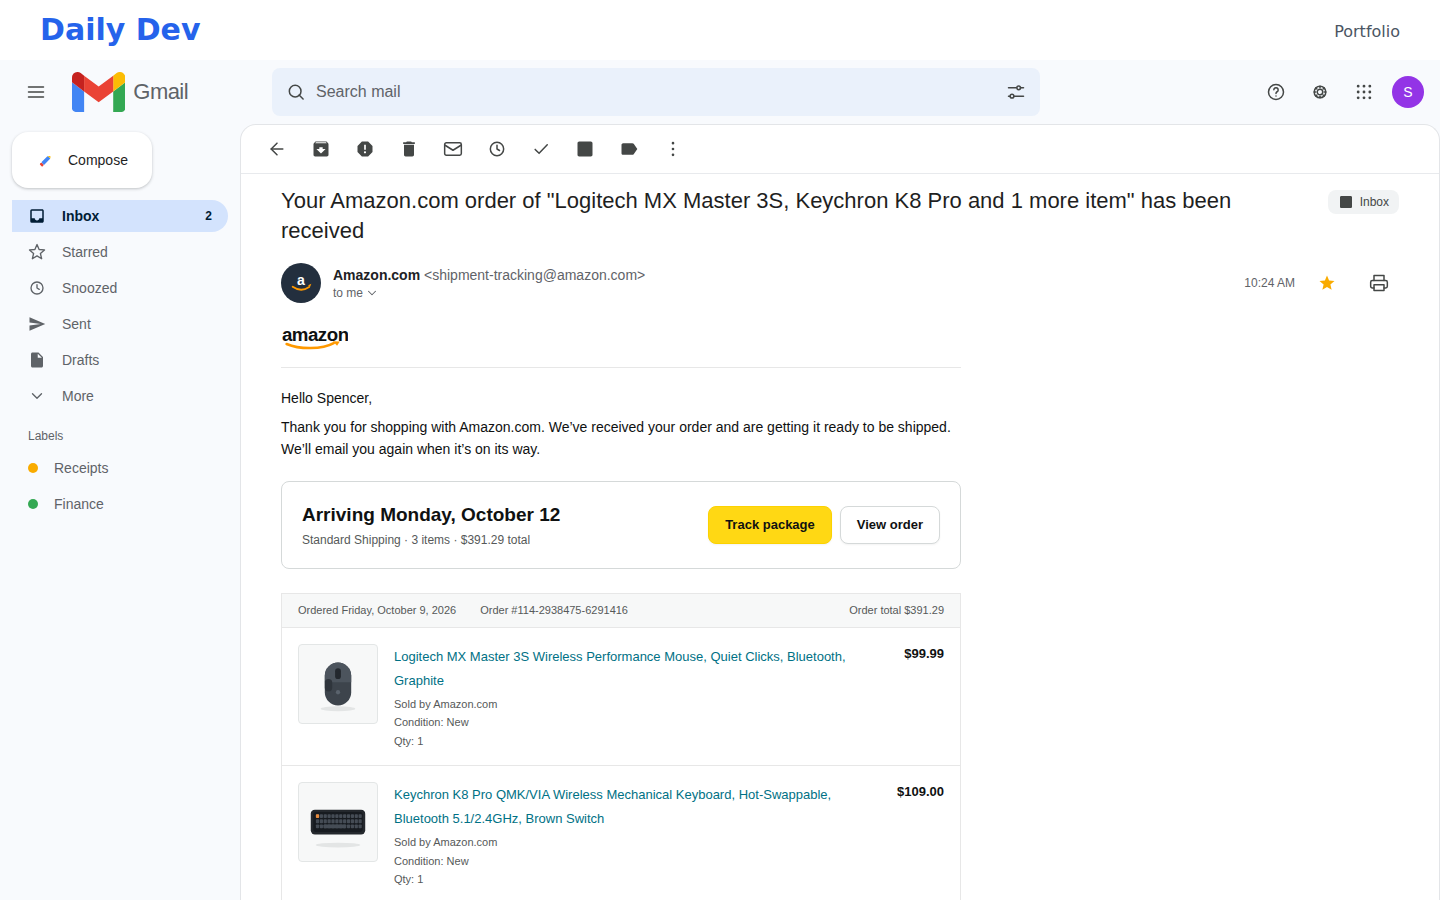
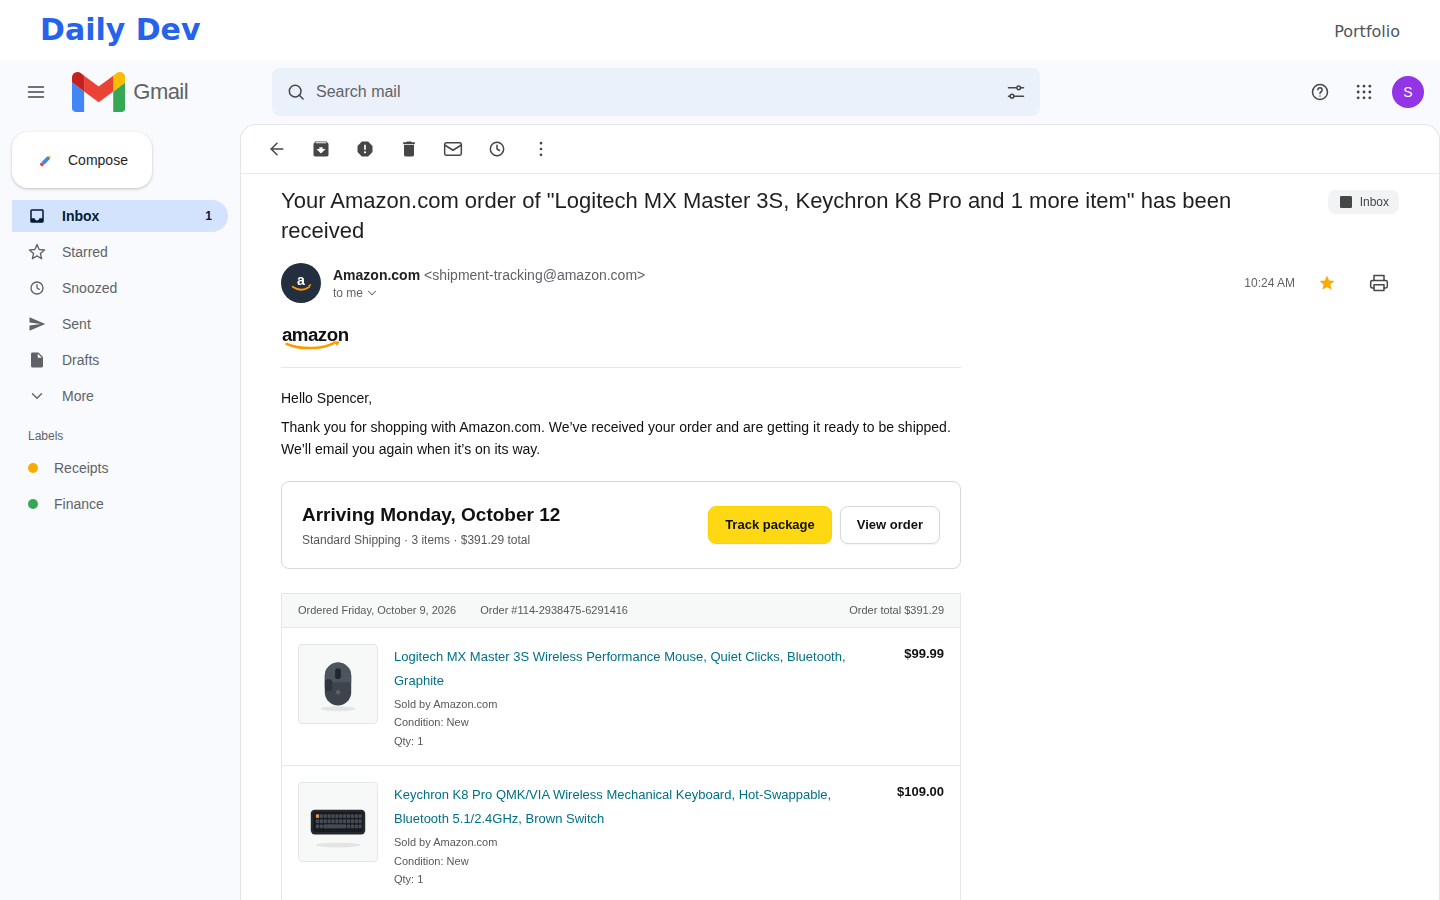
Polish day 17: receipt opens by default, trim toolbars, brighter compose controls

diff --git a/src/app/day/17/page.tsx b/src/app/day/17/page.tsx
@@ -93,7 +93,7 @@ const MAILS: Mail[] = [
     snippet:
       "Hello Spencer, thanks for your order. We're getting it ready to be shipped. Arriving Monday, October 12 - 3 items, $391.29 total...",
     received: "10:24 AM",
-    unread: true,
+    unread: false,
     starred: true,
     body: amazonReceiptBody,
   },
@@ -231,18 +231,6 @@ const IC = {
     "M9.4 9.4a2.6 2.6 0 1 1 3.9 2.3c-.9.5-1.3 1.1-1.3 2",
     "M12 16.9h.01",
   ],
-  gear: [
-    "M12 8.7a3.3 3.3 0 1 0 0 6.6 3.3 3.3 0 0 0 0-6.6z",
-    "M12 5a7 7 0 1 0 0 14 7 7 0 0 0 0-14z",
-    "M12 6.8V5.1",
-    "M17.2 12h1.7",
-    "M12 17.2v1.7",
-    "M6.8 12H5.1",
-    "M15.7 8.3l1.2-1.2",
-    "M8.3 8.3 7.1 7.1",
-    "M8.3 15.7l-1.2 1.2",
-    "M15.7 15.7l1.2 1.2",
-  ],
   inboxFill:
     "M19 3H5a2 2 0 0 0-2 2v14a2 2 0 0 0 2 2h14c1.1 0 2-.9 2-2V5c0-1.1-.9-2-2-2zm0 12h-4c0 1.66-1.34 3-3 3s-3-1.34-3-3H5V5h14v10z",
   inbox: [
@@ -264,7 +252,6 @@ const IC = {
     "M4 4.5h16a2 2 0 0 1 2 2v11a2 2 0 0 1-2 2H4a2 2 0 0 1-2-2v-11a2 2 0 0 1 2-2z",
     "m2.5 7.5 9.5 6 9.5-6",
   ],
-  label: "M17.63 5.84C17.27 5.33 16.67 5 16 5L5 5.01C3.9 5.01 3 5.9 3 7v10c0 1.1.9 1.99 2 1.99L16 19c.67 0 1.27-.33 1.63-.84L22 12z",
   print: [
     "M6 9V3h12v6",
     "M6 18H4a2 2 0 0 1-2-2v-5a2 2 0 0 1 2-2h16a2 2 0 0 1 2 2v5a2 2 0 0 1-2 2h-2",
@@ -647,6 +634,26 @@ const IconBtn = ({
   </button>
 );
 
+const DarkIconBtn = ({
+  children,
+  label,
+  onClick,
+}: {
+  children: React.ReactNode;
+  label: string;
+  onClick?: () => void;
+}) => (
+  <button
+    type="button"
+    title={label}
+    aria-label={label}
+    onClick={onClick}
+    className="grid h-7 w-7 flex-shrink-0 place-items-center rounded-full text-white transition-colors hover:bg-white/15"
+  >
+    {children}
+  </button>
+);
+
 const StarBtn = ({ starred, onToggle, className = "" }: { starred: boolean; onToggle: () => void; className?: string }) => (
   <motion.button
     type="button"
@@ -710,16 +717,16 @@ const ComposeWindow = ({ onClose, onSend }: { onClose: () => void; onSend: () =>
     >
       <div className="flex h-10 items-center justify-between bg-[#404045] px-4">
         <span className="truncate text-sm text-white/90">New Message</span>
-        <div className="flex items-center gap-1 text-white/70">
-          <IconBtn label="Minimize" className="h-7 w-7" onClick={onClose}>
+        <div className="flex items-center gap-1">
+          <DarkIconBtn label="Minimize" onClick={onClose}>
             <Ic d={IC.minimize} className="h-4 w-4" />
-          </IconBtn>
-          <IconBtn label="Full screen" className="h-7 w-7">
+          </DarkIconBtn>
+          <DarkIconBtn label="Full screen">
             <Ic d={IC.expand} className="h-4 w-4" />
-          </IconBtn>
-          <IconBtn label="Save &amp; close" className="h-7 w-7" onClick={onClose}>
+          </DarkIconBtn>
+          <DarkIconBtn label="Save &amp; close" onClick={onClose}>
             <Ic d={IC.close} className="h-4 w-4" />
-          </IconBtn>
+          </DarkIconBtn>
         </div>
       </div>
       <input value={to} onChange={(e) => setTo(e.target.value)} placeholder="To recipients" className={field} />
@@ -759,8 +766,9 @@ const ComposeWindow = ({ onClose, onSend }: { onClose: () => void; onSend: () =>
 export default function Day17() {
   const [mails, setMails] = useState<Mail[]>(MAILS);
   const [tab, setTab] = useState<Category>("primary");
-  const [view, setView] = useState<"inbox" | "mail">("inbox");
-  const [openId, setOpenId] = useState<number | null>(null);
+  // The receipt email is the star of the show - open it by default.
+  const [view, setView] = useState<"inbox" | "mail">("mail");
+  const [openId, setOpenId] = useState<number | null>(MAILS[0].id);
   const [query, setQuery] = useState("");
   const [searchFocused, setSearchFocused] = useState(false);
   const [selected, setSelected] = useState<Set<number>>(new Set());
@@ -901,15 +909,6 @@ export default function Day17() {
       <IconBtn label="Snooze">
         <Ic d={IC.clock} />
       </IconBtn>
-      <IconBtn label="Add to Tasks">
-        <Ic d={IC.check} />
-      </IconBtn>
-      <IconBtn label="Move to Inbox">
-        <Ic d={IC.moveToInboxFill} filled />
-      </IconBtn>
-      <IconBtn label="Labels">
-        <Ic d={IC.label} filled />
-      </IconBtn>
       <IconBtn label="More options">
         <IconMoreV />
       </IconBtn>
@@ -958,9 +957,6 @@ export default function Day17() {
         <div className="ml-auto flex flex-shrink-0 items-center gap-1 text-[#444746]">
           <IconBtn label="Support" className="hidden sm:grid">
             <Ic d={IC.help} />
-          </IconBtn>
-          <IconBtn label="Settings">
-            <Ic d={IC.gear} />
           </IconBtn>
           <IconBtn label="Google apps">
             <IconApps />
